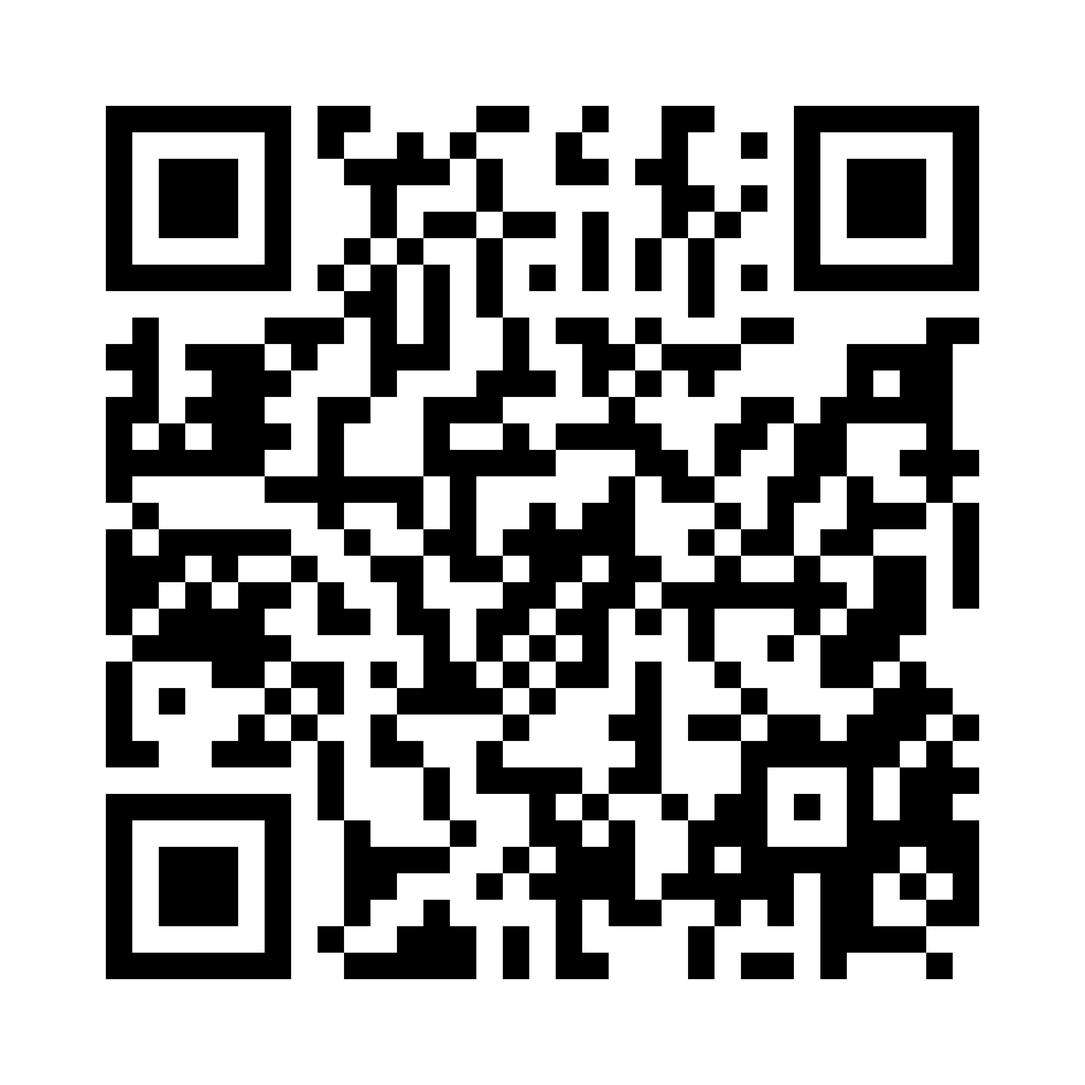
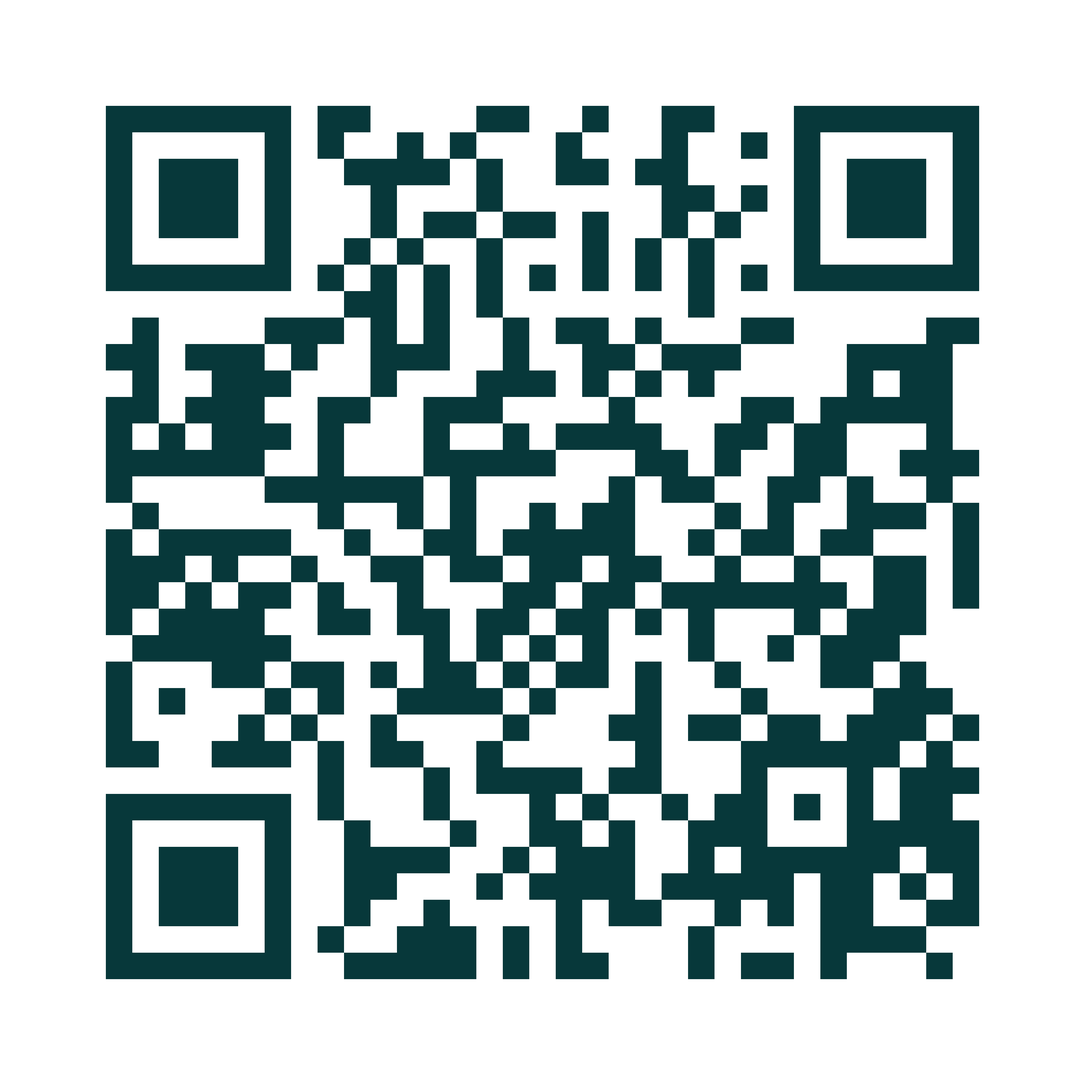
feat(demo): ampliar exemplos e publicar material de divulgação comunitária

diff --git a/assets/civic-demo.js b/assets/civic-demo.js
@@ -23,6 +23,7 @@ const rows=[
 
 const DEMO_AGENCIES=Object.freeze({vias:'Manutenção viária · DEMO',iluminacao:'Iluminação pública · DEMO',residuos:'Limpeza urbana · DEMO',agua:'Água e saneamento · DEMO',alagamentos:'Drenagem urbana · DEMO',sinalizacao:'Mobilidade e sinalização · DEMO',acessibilidade:'Acessibilidade urbana · DEMO',areas:'Áreas públicas · DEMO',outros:'Serviços urbanos · DEMO'});
 const extraSeeds=[["Faixa de pedestres recebe manutenção demonstrativa","A sinalização horizontal aparece como em atendimento neste cenário fictício, usado para demonstrar atualização de mobilidade.","sinalizacao","Jardim Elite","Em andamento",6],["Vazamento em área pública é marcado como resolvido","Caso fictício de saneamento com histórico completo de recebimento, encaminhamento, execução e resolução.","agua","Água Branca","Resolvida",18,2],["Praça entra em vistoria de zeladoria","Ocorrência fictícia sobre conservação de área pública para ampliar o recorte territorial da demonstração.","areas","Parque da Rua do Porto","Em análise",4],["Iluminação de travessia é concluída","Exemplo fictício de atendimento concluído em área central para mostrar uma resolução recente.","iluminacao","Cidade Alta","Resolvida",14,1],["Boca de lobo recebe encaminhamento","Cenário fictício de drenagem urbana com encaminhamento registrado no histórico demonstrativo.","alagamentos","Paulicéia","Encaminhada",6],["Descarte irregular é registrado","Exemplo fictício recém-recebido para demonstrar entrada de nova ocorrência no painel.","residuos","Campestre","Recebida",1],["Placa de orientação é reposta","Resolução fictícia de sinalização para enriquecer a seção de resultados do jornal DEMO.","sinalizacao","Jardim Caxambu","Resolvida",20,3],["Trecho de asfalto entra em análise","Registro fictício de pavimento usado para mostrar análise inicial e filtros por bairro.","vias","Nova Piracicaba","Em análise",5],["Mobiliário urbano recebe manutenção","Exemplo fictício de serviço urbano geral em andamento para apresentação de histórico e setor de referência.","outros","Monte Alegre","Em andamento",7],["Rota acessível é liberada após ajuste","Caso fictício de acessibilidade concluído, com linha do tempo criada apenas para demonstração.","acessibilidade","São Judas","Resolvida",24,4],["Rede de água recebe reparo demonstrativo","Ocorrência fictícia em andamento para mostrar acompanhamento contínuo pelo cidadão.","agua","Algodoal","Em andamento",8],["Área verde tem serviço concluído","Resultado fictício de manutenção de área pública com atualização publicada no jornal de demonstração.","areas","Santa Rosa","Resolvida",16,2],["Poste com falha é encaminhado","Registro fictício de iluminação encaminhado para setor de referência demonstrativo.","iluminacao","Jaraguá","Encaminhada",5],["Ponto de resíduos entra em análise","Ocorrência fictícia de limpeza urbana usada para demonstrar triagem e priorização.","residuos","Bairro Verde","Em análise",3],["Reparo de pavimento é concluído","Caso fictício de via pública com resolução publicada e histórico completo para apresentação.","vias","Piracicamirim","Resolvida",27,7],["Sinalização vertical é registrada","Novo registro fictício de mobilidade, ainda na etapa de recebimento.","sinalizacao","Santa Cecília","Recebida",1],["Drenagem em via central é concluída","Resolução fictícia de alagamento usada apenas para demonstrar dados históricos no portal.","alagamentos","Centro","Resolvida",32,10],["Calçada recebe adequação demonstrativa","Ocorrência fictícia de acessibilidade em execução para demonstrar acompanhamento por status.","acessibilidade","Jardim Itapuã","Em andamento",7],["Parque recebe encaminhamento de zeladoria","Registro fictício de área pública encaminhado para manutenção demonstrativa.","areas","Taquaral","Encaminhada",5],["Equipamento urbano volta ao funcionamento","Caso fictício classificado como outros, resolvido e publicado somente no modo de apresentação.","outros","Vila Independência","Resolvida",19,3],["Iluminação de praça entra em atendimento","Ocorrência fictícia em andamento para demonstrar alertas e acompanhamento de bairro.","iluminacao","Nova América","Em andamento",6],["Demanda de abastecimento é recebida","Novo registro fictício de água e saneamento usado para demonstrar volume recente.","agua","Monte Líbano","Recebida",1],["Limpeza de área central é finalizada","Resolução fictícia de resíduos para demonstrar resultados, filtros e manchetes do jornal DEMO.","residuos","Centro","Resolvida",13,2],["Via de acesso é encaminhada para reparo","Ocorrência fictícia de pavimento encaminhada e acompanhada pelo perfil de demonstração.","vias","Castelinho","Encaminhada",4]];
+extraSeeds.push(...[["Banco de praça recebe reparo no exemplo", "Cenário totalmente fictício para explicar como registrar, acompanhar e consultar etapas. Não descreve um fato real nem um serviço executado pela Prefeitura.", "areas", "Vila Rezende", "Resolvida", 12, 2], ["Travessia próxima à escola entra em análise", "Cenário totalmente fictício para explicar como registrar, acompanhar e consultar etapas. Não descreve um fato real nem um serviço executado pela Prefeitura.", "sinalizacao", "Centro", "Em análise", 3], ["Calçada com obstáculos tem vistoria simulada", "Cenário totalmente fictício para explicar como registrar, acompanhar e consultar etapas. Não descreve um fato real nem um serviço executado pela Prefeitura.", "acessibilidade", "Paulista", "Encaminhada", 5], ["Luminária de rua recebe manutenção no exemplo", "Cenário totalmente fictício para explicar como registrar, acompanhar e consultar etapas. Não descreve um fato real nem um serviço executado pela Prefeitura.", "iluminacao", "Santa Rosa", "Em andamento", 8], ["Ponto de descarte é limpo no cenário fictício", "Cenário totalmente fictício para explicar como registrar, acompanhar e consultar etapas. Não descreve um fato real nem um serviço executado pela Prefeitura.", "residuos", "Piracicamirim", "Resolvida", 15, 3], ["Vazamento junto à praça é relatado no exemplo", "Cenário totalmente fictício para explicar como registrar, acompanhar e consultar etapas. Não descreve um fato real nem um serviço executado pela Prefeitura.", "agua", "Nova América", "Recebida", 1], ["Boca de lobo passa por limpeza simulada", "Cenário totalmente fictício para explicar como registrar, acompanhar e consultar etapas. Não descreve um fato real nem um serviço executado pela Prefeitura.", "alagamentos", "Centro", "Resolvida", 17, 4], ["Via com desnível entra na triagem fictícia", "Cenário totalmente fictício para explicar como registrar, acompanhar e consultar etapas. Não descreve um fato real nem um serviço executado pela Prefeitura.", "vias", "Vila Sônia", "Em análise", 4], ["Equipamento de praça recebe avaliação simulada", "Cenário totalmente fictício para explicar como registrar, acompanhar e consultar etapas. Não descreve um fato real nem um serviço executado pela Prefeitura.", "outros", "São Dimas", "Encaminhada", 6], ["Rampa de acesso tem adequação no exemplo", "Cenário totalmente fictício para explicar como registrar, acompanhar e consultar etapas. Não descreve um fato real nem um serviço executado pela Prefeitura.", "acessibilidade", "Cidade Alta", "Resolvida", 20, 2], ["Faixa de pedestres recebe pintura simulada", "Cenário totalmente fictício para explicar como registrar, acompanhar e consultar etapas. Não descreve um fato real nem um serviço executado pela Prefeitura.", "sinalizacao", "Morumbi", "Em andamento", 7], ["Área verde recebe um novo relato fictício", "Cenário totalmente fictício para explicar como registrar, acompanhar e consultar etapas. Não descreve um fato real nem um serviço executado pela Prefeitura.", "areas", "Monte Alegre", "Recebida", 1], ["Lixeira de praça é substituída no cenário", "Cenário totalmente fictício para explicar como registrar, acompanhar e consultar etapas. Não descreve um fato real nem um serviço executado pela Prefeitura.", "residuos", "Parque da Rua do Porto", "Resolvida", 16, 3], ["Iluminação junto à calçada entra em análise", "Cenário totalmente fictício para explicar como registrar, acompanhar e consultar etapas. Não descreve um fato real nem um serviço executado pela Prefeitura.", "iluminacao", "Cecap", "Em análise", 3], ["Trecho de pavimento tem reparo simulado", "Cenário totalmente fictício para explicar como registrar, acompanhar e consultar etapas. Não descreve um fato real nem um serviço executado pela Prefeitura.", "vias", "Nova Piracicaba", "Resolvida", 21, 5], ["Ponto de água recebe avaliação demonstrativa", "Cenário totalmente fictício para explicar como registrar, acompanhar e consultar etapas. Não descreve um fato real nem um serviço executado pela Prefeitura.", "agua", "Água Branca", "Em andamento", 8], ["Drenagem de rua tem vistoria no exemplo", "Cenário totalmente fictício para explicar como registrar, acompanhar e consultar etapas. Não descreve um fato real nem um serviço executado pela Prefeitura.", "alagamentos", "Paulicéia", "Encaminhada", 4], ["Pedido de conservação entra na fila fictícia", "Cenário totalmente fictício para explicar como registrar, acompanhar e consultar etapas. Não descreve um fato real nem um serviço executado pela Prefeitura.", "outros", "Taquaral", "Recebida", 1]]);
 const statusFlow=['Recebida','Em análise','Encaminhada','Em andamento','Resolvida'];
 function makeExtra(seed,index){
  const [title,description,category,bairro,status,age,done=0.5]=seed,level=statusFlow.indexOf(status),last=status==='Resolvida'?done:Math.max(.2,age-Math.max(1,level*1.4)),span=Math.max(0,age-last);
@@ -90,7 +91,7 @@ const account={
 profile.bio='Perfil totalmente fictício criado para apresentar uma experiência completa do Cidade Conecta, com ocorrências, bairros favoritos, notícias, notificações, itens salvos, histórico e resultados. Nenhuma informação deste perfil representa uma pessoa real.';
 profile.neighborhoods=['Centro','Vila Rezende','Paulista','Piracicamirim','Nova América','São Dimas','Santa Terezinha','Água Branca'];
 profile.following=18;profile.reports=14;profile.resolved=12;
-profile.badges=['Conta DEMO','36 ocorrências fictícias','8 bairros acompanhados','Apresentação do produto','Dados não reais'];
+profile.badges=['Conta DEMO',rows.length+' ocorrências fictícias','8 bairros acompanhados','Apresentação do produto','Dados não reais'];
 account.follows=['DEMO-2026-00001','DEMO-2026-00002','DEMO-2026-00003','DEMO-2026-00004','DEMO-2026-00005','DEMO-2026-00008','DEMO-2026-00012','DEMO-2026-00013','DEMO-2026-00014','DEMO-2026-00016','DEMO-2026-00018','DEMO-2026-00021','DEMO-2026-00022','DEMO-2026-00024','DEMO-2026-00029','DEMO-2026-00030','DEMO-2026-00033','DEMO-2026-00036'];
 account.neighborhoods=[...profile.neighborhoods];
 account.created=['DEMO-2026-00001','DEMO-2026-00003','DEMO-2026-00005','DEMO-2026-00008','DEMO-2026-00010','DEMO-2026-00013','DEMO-2026-00016','DEMO-2026-00017','DEMO-2026-00021','DEMO-2026-00023','DEMO-2026-00026','DEMO-2026-00030','DEMO-2026-00033','DEMO-2026-00036'];

diff --git a/assets/civic-pages.js b/assets/civic-pages.js
@@ -179,10 +179,15 @@ function demoCenter(q){
   ['4','Mostrar a conta DEMO','Apresente ocorrências criadas, acompanhamentos, bairros, notificações e perfil fictício.','#/minhas'],
   ['5','Encerrar com jornal e transparência','Use o jornal como complemento visual e finalize explicando privacidade e dados públicos.','#/noticias?demo=1']
  ];
- const body=`<section class="civic-demo-presentation-hero"><div><span class="civic-demo-stamp">MODO APRESENTAÇÃO</span><span class="miniLabel">Cidade Conecta Piracicaba</span><h2>Uma demonstração guiada do produto</h2><p>Use este roteiro para apresentar a experiência completa sem depender de dados pessoais ou de ocorrências reais. Tudo que estiver marcado como DEMO é fictício e isolado.</p><div class="actions"><a class="btn primary" href="#/registrar">Começar pelo registro</a><a class="btn secondary" href="#/conta">Entrar na conta DEMO</a></div></div><div class="civic-demo-presentation-score"><span>Conteúdo fictício</span><b>${rows.length}</b><small>ocorrências demonstrativas</small><b>${m.resolved}</b><small>resolvidas</small><b>${a?.notifications?.length||0}</b><small>notificações</small></div></section>
- <section class="civic-demo-tour"><div class="civic-news-section-head"><div><span class="miniLabel">Roteiro sugerido</span><h2>Apresente em cinco etapas</h2></div></div><div class="civic-demo-tour-grid">${steps.map(([n,t,d,h])=>`<article><span>${n}</span><h3>${e(t)}</h3><p>${e(d)}</p><a class="miniLink" href="${h}">Abrir etapa →</a></article>`).join('')}</div></section>
- <section class="civic-demo-presentation-grid"><article class="card"><span class="miniLabel">Perfil usado na demonstração</span><h2>${e(p?.name||'Gabriel Demo')}</h2><p>${e(p?.bio||'Perfil fictício')}</p><div class="civic-demo-badges">${(p?.badges||[]).map(x=>`<span>${e(x)}</span>`).join('')}</div></article><article class="card"><span class="miniLabel">O que vale destacar</span><h2>Recursos já integrados</h2><ul class="civic-demo-feature-list"><li>Conta cidadã opcional e isolada do Admin</li><li>Jornal cívico com versão real e DEMO</li><li>Problemas resolvidos e antes/depois moderado</li><li>Notificações, bairros e acompanhamentos</li><li>Admin operacional com auditoria</li><li>PWA, privacidade, acessibilidade e responsividade</li></ul></article></section>
- <aside class="civic-news-note"><strong>Segurança da demonstração</strong><p>A conta DEMO não cria usuário no Supabase, não grava ocorrências, não altera indicadores reais e pode ser resetada a qualquer momento. Ela existe apenas para apresentação e teste da experiência.</p></aside>`;
+ const activeDemo=window.CidadeConectaAccount?.state?.().demo===true;
+ const cases=[['Uma lâmpada apagou','iluminacao','Veja o relato, o protocolo e as etapas de uma manutenção simulada.'],['A calçada precisa de atenção','acessibilidade','Entenda como um pedido fictício pode ser acompanhado até a resolução.'],['Há resíduos em uma área pública','residuos','Explore um exemplo de relato, análise e atualização fictícia.']];
+ const welcome=`<section class="card civic-demo-welcome"><span class="civic-demo-stamp">EXPERIMENTE SEM CADASTRO</span><h2>Entenda o Cidade Conecta em dois minutos</h2><p>Uma pessoa relata um problema urbano. O relato ganha um protocolo. Depois, ela consulta as etapas disponíveis e acompanha as atualizações. Explore esse caminho com exemplos fictícios.</p><div class="actions">${activeDemo?'<a class="btn primary" href="#/minhas">Continuar explorando a DEMO</a>':'<button type="button" class="btn primary" data-account-demo-login>Ativar demonstração sem criar conta</button>'}<a class="btn secondary" href="#/noticias?demo=1">Ler notícias fictícias</a><a class="btn secondary" href="assets/divulgacao/index.html">Material para divulgar</a></div><p class="small muted">Ativar a demonstração troca a conta exibida nesta aba por um perfil fictício. Para voltar ao uso normal, use Sair na tela Minha conta.</p></section>`;
+ const examples=`<section class="civic-demo-examples"><div class="civic-news-section-head"><div><span class="miniLabel">Situações do dia a dia · exemplos fictícios</span><h2>O que dá para entender na prática?</h2></div></div><div class="civic-demo-tour-grid">${cases.map(([title,category,text])=>{const record=rows.find(o=>o.category===category&&o.status==='Resolvida');return `<article><span class="civic-demo-stamp">CASO FICTÍCIO</span><h3>${e(title)}</h3><p>${e(text)}</p><p class="small"><b>Protocolo de exemplo:</b> ${e(record?.protocol||'DEMO')}</p><a class="miniLink" href="#/noticias?demo=1&protocolo=${e(record?.protocol||'')}">Ver a história deste exemplo →</a></article>`}).join('')}</div></section>`;
+ const questions=`<section class="card civic-demo-faq"><span class="miniLabel">Antes de participar</span><h2>Perguntas rápidas</h2><details><summary>Preciso criar uma conta para registrar?</summary><p>Não. O registro de ocorrências continua disponível sem cadastro. A conta é opcional para organizar acompanhamentos e bairros favoritos.</p></details><details><summary>Os exemplos desta apresentação aconteceram de verdade?</summary><p>Não. Todos os protocolos DEMO, relatos e atendimentos desta apresentação são fictícios. Fotografias da cidade são apenas ilustrativas e não comprovam esses relatos.</p></details><details><summary>O relato é enviado automaticamente à Prefeitura?</summary><p>Não. O Cidade Conecta é um projeto acadêmico independente. Seu protocolo não substitui os canais oficiais da Prefeitura nem os serviços de emergência.</p></details><details><summary>Outras pessoas veem meu contato?</summary><p>Seu contato, o código privado e a localização exata não aparecem nas áreas públicas. Leia as orientações de privacidade antes de registrar.</p></details><div class="actions"><a class="btn primary" href="#/registrar">Quero registrar um problema</a><a class="btn secondary" href="#/privacidade">Entender a privacidade</a><a class="btn secondary" href="#/">Voltar ao início</a></div></section>`;
+ const body=`${welcome}<section class="civic-demo-presentation-hero"><div><span class="civic-demo-stamp">MODO APRESENTAÇÃO</span><span class="miniLabel">Cidade Conecta Piracicaba</span><h2>Uma demonstração guiada do produto</h2><p>Use este roteiro para apresentar a experiência completa sem depender de dados pessoais ou de ocorrências reais. Tudo que estiver marcado como DEMO é fictício e isolado.</p><div class="actions"><a class="btn primary" href="#/registrar">Ver formulário de registro</a><a class="btn secondary" href="#/conta">Entrar na conta DEMO</a></div></div><div class="civic-demo-presentation-score"><span>Conteúdo fictício</span><b>${rows.length}</b><small>ocorrências demonstrativas</small><b>${m.resolved}</b><small>resolvidas</small><b>${a?.notifications?.length||0}</b><small>notificações</small></div></section>
+ ${examples}<section class="civic-demo-tour"><div class="civic-news-section-head"><div><span class="miniLabel">Roteiro sugerido</span><h2>Apresente em cinco etapas</h2></div></div><div class="civic-demo-tour-grid">${steps.map(([n,t,d,h])=>`<article><span>${n}</span><h3>${e(t)}</h3><p>${e(d)}</p><a class="miniLink" href="${h}">Abrir etapa →</a></article>`).join('')}</div></section>
+ <section class="civic-demo-presentation-grid"><article class="card"><span class="miniLabel">Perfil usado na demonstração</span><h2>${e(p?.name||'Gabriel Demo')}</h2><p>${e(p?.bio||'Perfil fictício')}</p><div class="civic-demo-badges">${(p?.badges||[]).map(x=>`<span>${e(x)}</span>`).join('')}</div></article><article class="card"><span class="miniLabel">O que vale destacar</span><h2>O que você pode explorar</h2><ul class="civic-demo-feature-list"><li>Registrar um problema urbano sem criar conta</li><li>Consultar um protocolo e suas etapas</li><li>Encontrar exemplos no mapa e na lista</li><li>Entender casos fictícios de problemas resolvidos</li><li>Explorar notícias e bairros favoritos</li><li>Conhecer os cuidados com seus dados pessoais</li></ul></article></section>
+ ${questions}<aside class="civic-news-note"><strong>Segurança da demonstração</strong><p>A conta DEMO não cria usuário no Supabase, não grava ocorrências, não altera indicadores reais e pode ser resetada a qualquer momento. Ela existe apenas para apresentação e teste da experiência.</p></aside>`;
  return shell('Apresentação segura','Central DEMO','Roteiro guiado para apresentar o Cidade Conecta sem misturar dados reais e fictícios.',body,q,{demo:true})
 }
 function transparency(q){

diff --git a/assets/divulgacao/index.html b/assets/divulgacao/index.html
@@ -1,0 +1,23 @@
+<!doctype html>
+<html lang="pt-BR">
+<head>
+<meta charset="utf-8"><meta name="viewport" content="width=device-width,initial-scale=1">
+<meta name="description" content="Divulgue o Cidade Conecta Piracicaba: projeto acadêmico independente, com mapa, protocolo e exemplos fictícios para conhecer a experiência.">
+<title>Divulgue o Cidade Conecta Piracicaba</title>
+<style>
+*{box-sizing:border-box}body{margin:0;background:#e8efeb;color:#07383a;font:17px/1.5 Arial, sans-serif}.tools{max-width:1200px;margin:20px auto;padding:0 20px;display:flex;flex-wrap:wrap;gap:12px}.tools a,.tools button{font:inherit;color:#07383a;background:white;border:1px solid #a5bfba;border-radius:8px;padding:10px 16px;text-decoration:none;cursor:pointer}.poster{position:relative;width:1200px;height:1700px;margin:20px auto;background:#fbfcf7;overflow:hidden;display:flex;flex-direction:column}.brand{padding:54px 72px 32px;display:flex;align-items:center;gap:22px;font-size:30px;font-weight:800}.brand img{width:78px;height:78px}.brand small{display:block;font-size:18px;letter-spacing:4px;font-weight:500}.hero{padding:34px 72px 46px;background:#07383a;color:#fff}.eyebrow{color:#d8ef82;font-size:18px;letter-spacing:4px;font-weight:bold}.hero h1{font-size:83px;line-height:1.04;letter-spacing:-3px;margin:24px 0}.hero p{font-size:28px;line-height:1.5;max-width:940px;margin:0;color:#dce9e3}.steps{display:grid;grid-template-columns:repeat(3,1fr);gap:24px;margin:38px 72px}.step{border-top:4px solid #b9df63;padding:18px 0}.step b{display:block;font-size:23px;margin-bottom:8px}.step p{font-size:20px;line-height:1.4;margin:0;color:#49645f}.scan{display:grid;grid-template-columns:440px 1fr;gap:45px;align-items:center;margin:0 72px;padding:28px;background:#eff4e4;border-radius:22px}.scan img{display:block;width:100%;height:auto;background:white;padding:14px;border-radius:10px}.scan h2{font-size:44px;line-height:1.1;margin:0 0 24px}.scan p{font-size:24px;line-height:1.5;margin:0 0 24px}.tag{display:inline-block;background:#d8ef82;border-radius:100px;padding:9px 17px;font-size:19px;font-weight:800}.url{font-size:25px;text-align:center;padding:26px 30px 10px;margin:0;font-weight:700;overflow-wrap:anywhere}.footer{margin-top:auto;padding:26px 72px 42px;font-size:19px;line-height:1.55;color:#49645f;border-bottom:16px solid #b9df63}.footer strong{display:block;color:#07383a;font-size:23px;margin-bottom:6px}.sr{position:absolute;width:1px;height:1px;overflow:hidden;clip-path:inset(50%)}
+@media(max-width:1230px){.poster{width:calc(100% - 24px);height:auto;min-height:0}.brand{padding:28px;gap:15px;font-size:23px}.brand img{width:60px;height:60px}.brand small{font-size:14px}.hero{padding:32px 28px}.hero h1{font-size:clamp(40px,7vw,83px);letter-spacing:-1.5px}.hero p{font-size:22px}.eyebrow{font-size:13px;letter-spacing:2px}.steps{margin:24px 28px;gap:16px}.step b{font-size:19px}.step p{font-size:17px}.scan{margin:0 28px;grid-template-columns:minmax(160px,40%) 1fr;gap:25px;padding:22px}.scan h2{font-size:32px}.scan p{font-size:19px}.tag{font-size:15px}.url{font-size:19px}.footer{padding:24px 28px;font-size:16px}.footer strong{font-size:19px}}
+@media(max-width:600px){.steps{grid-template-columns:1fr}.step{padding:12px 0}.scan{grid-template-columns:1fr}.scan img{max-width:340px;margin:auto}.scan h2{font-size:30px}.scan p{font-size:18px}.brand{font-size:20px}.brand small{font-size:12px;letter-spacing:2px}.tools a{width:100%;text-align:center}}
+.printPoster{display:none}
+@media print{@page{size:A4;margin:0}body{background:white;margin:0}.tools,.poster{display:none}.printPoster{display:block;width:210mm;height:297mm;object-fit:contain}}
+</style>
+</head><body>
+<nav class="tools" aria-label="Materiais para compartilhar"><a href="https://cidade-conecta-piracicaba.web.app/">Abrir site</a><a href="https://cidade-conecta-piracicaba.web.app/#/demonstracao">Entender com exemplos fictícios</a><a href="cidade-conecta-piracicaba-cartaz.png" download>Baixar cartaz PNG</a><a href="cidade-conecta-piracicaba-qr.png" download>Baixar só o QR Code</a><button type="button" onclick="window.print()">Imprimir / salvar PDF</button></nav>
+<main class="poster" aria-label="Cartaz de divulgação">
+<header class="brand"><img src="../brand-mark-v51.svg" alt=""><div>Cidade Conecta<small>PIRACICABA · SP</small></div></header>
+<section class="hero"><span class="eyebrow">CONHEÇA UM PROJETO FEITO PARA PARTICIPAR</span><h1>Sua cidade.<br>Seu olhar.<br>Mais participação.</h1><p>Conheça uma forma de registrar problemas urbanos, consultar protocolos e explorar informações sobre Piracicaba.</p></section>
+<section class="steps" aria-label="O que você encontra"><article class="step"><b>01 · Entenda</b><p>Veja exemplos fictícios de iluminação, calçadas, resíduos e outros temas.</p></article><article class="step"><b>02 · Explore</b><p>Conheça o mapa, as notícias e o histórico de um protocolo.</p></article><article class="step"><b>03 · Participe</b><p>Registre um problema urbano sem precisar criar uma conta.</p></article></section>
+<section class="scan"><a href="https://cidade-conecta-piracicaba.web.app/" aria-label="Abrir Cidade Conecta Piracicaba"><img src="cidade-conecta-piracicaba-qr.png" alt="QR Code para https://cidade-conecta-piracicaba.web.app/"></a><div><span class="tag">ACESSO GRATUITO</span><h2>Aponte a câmera.<br>Conheça o projeto.</h2><p>Ao entrar no site, procure <strong>“Entenda com exemplos fictícios”</strong> e experimente a apresentação.</p><p>Use no celular ou no computador.</p></div></section>
+<p class="url">cidade-conecta-piracicaba.web.app</p>
+<footer class="footer"><strong>Projeto acadêmico independente.</strong>Não é um canal oficial da Prefeitura e não substitui serviços de emergência. Os exemplos marcados como DEMO são fictícios. Relatos reais ficam separados da demonstração.</footer>
+</main><img class="printPoster" src="cidade-conecta-piracicaba-cartaz.png" alt="Cartaz de divulgação do Cidade Conecta Piracicaba com QR Code"></body></html>

diff --git a/sw.js b/sw.js
@@ -1,7 +1,7 @@
 const CACHE_PREFIX='cidade-conecta-';
-const CACHE='cidade-conecta-v9-firebase-20261111-r1';
+const CACHE='cidade-conecta-v9-demo-20261117-r1';
 const CORE=['./','./index.html','./assets/styles.css','./assets/app.js','./assets/piracicaba.css','./assets/piracicaba.js','./assets/piracicaba-mapas.js','./assets/piracicaba-mapas.css','./assets/privacy-geo.js','./assets/map-resilience.js','./assets/runtime-config.js','./assets/auth.js','./assets/supabase-bridge.js','./assets/site-enhancements.js','./assets/site-enhancements.css','./assets/design-v55.css','./assets/design-v56.css','./assets/brand-mark-v51.svg','./assets/piracicaba-rio.svg','./assets/demo-news/acessibilidade.svg','./assets/demo-news/agua.svg','./assets/demo-news/alagamentos.svg','./assets/demo-news/areas.svg','./assets/demo-news/iluminacao.svg','./assets/demo-news/residuos.svg','./assets/demo-news/sinalizacao.svg','./assets/demo-news/vias.svg','./data/piracicaba.json','./data/municipal-network.json','./manifest.webmanifest','./favicon.svg','./assets/design-system.css','./assets/civic-data.js','./assets/civic-store.js','./assets/civic-news-store.js','./assets/civic-account.js','./assets/civic-ui.js','./assets/civic.css','./assets/institutional-pira-v85.css','./assets/institutional-a11y-v85.js','./assets/civic-pages.js','./assets/civic-share.js','./assets/civic-demo.js','./assets/civic-city-news.js','./assets/civic-community.js','./assets/civic-admin.js','./assets/civic-pwa.js','./assets/icons/icon-180.png','./assets/icons/icon-192.png','./assets/icons/icon-512.png','./assets/icons/icon-maskable-512.png','./assets/vendor/qrcode-generator-1.4.4.js'];
-const SHELL_VERSIONS=['./assets/styles.css?v=5.5.0', './assets/piracicaba.css?v=5.5.0', './assets/piracicaba-mapas.css?v=5.5.0', './assets/site-enhancements.css?v=5.7.1', './assets/design-v55.css?v=5.5.0', './assets/design-v56.css?v=5.7.1-ui4', './assets/design-system.css?v=6.0.1', './assets/brand-mark-v51.svg?v=5.5.0', './assets/runtime-config.js?v=5.7.1', './assets/auth.js?v=8.4.0', './assets/supabase-bridge.js?v=5.5.0', './assets/app.js?v=9.6.4', './assets/piracicaba.js?v=9.6.3', './assets/piracicaba-mapas.js?v=9.6.2', './assets/privacy-geo.js?v=5.5.0', './assets/map-resilience.js?v=1.0.1', './assets/site-enhancements.js?v=8.5.1', './assets/civic-data.js?v=9.6.2', './assets/civic-store.js?v=9.6.2', './assets/civic-account.js?v=9.7.0', './assets/civic-news-store.js?v=8.0.0', './assets/civic-ui.js?v=9.7.0', './assets/civic.css?v=9.6.2', './assets/institutional-pira-v85.css?v=9.2.1', './assets/institutional-a11y-v85.js?v=8.5.1', './assets/civic-pages.js?v=9.6.3', './assets/civic-share.js?v=9.6.2', './assets/civic-demo.js?v=9.6.1', './assets/civic-city-news.js?v=9.6.4', './assets/civic-community.js?v=9.6.2', './assets/civic-admin.js?v=7.0.0-7', './assets/civic-pwa.js?v=7.0.0-7'];
+const SHELL_VERSIONS=['./assets/styles.css?v=5.5.0', './assets/piracicaba.css?v=5.5.0', './assets/piracicaba-mapas.css?v=5.5.0', './assets/site-enhancements.css?v=5.7.1', './assets/design-v55.css?v=5.5.0', './assets/design-v56.css?v=5.7.1-ui4', './assets/design-system.css?v=6.0.1', './assets/brand-mark-v51.svg?v=5.5.0', './assets/runtime-config.js?v=5.7.1', './assets/auth.js?v=8.4.0', './assets/supabase-bridge.js?v=5.5.0', './assets/app.js?v=9.6.4', './assets/piracicaba.js?v=9.6.3', './assets/piracicaba-mapas.js?v=9.6.2', './assets/privacy-geo.js?v=5.5.0', './assets/map-resilience.js?v=1.0.1', './assets/site-enhancements.js?v=8.5.1', './assets/civic-data.js?v=9.6.2', './assets/civic-store.js?v=9.6.2', './assets/civic-account.js?v=9.7.0', './assets/civic-news-store.js?v=8.0.0', './assets/civic-ui.js?v=9.7.0', './assets/civic.css?v=9.6.2', './assets/institutional-pira-v85.css?v=9.8.0', './assets/institutional-a11y-v85.js?v=8.5.1', './assets/civic-pages.js?v=9.8.0', './assets/civic-share.js?v=9.6.2', './assets/civic-demo.js?v=9.8.0', './assets/civic-city-news.js?v=9.6.4', './assets/civic-community.js?v=9.6.2', './assets/civic-admin.js?v=7.0.0-7', './assets/civic-pwa.js?v=7.0.0-7'];
 
 self.addEventListener('install',event=>{
   event.waitUntil(caches.open(CACHE).then(cache=>cache.addAll([...CORE,...SHELL_VERSIONS])).then(()=>self.skipWaiting()));

diff --git a/index.html b/index.html
@@ -32,7 +32,7 @@
   <link rel="stylesheet" href="assets/design-v56.css?v=5.7.1-ui4">
   <link rel="stylesheet" href="assets/design-system.css?v=6.0.1">
   <link rel="stylesheet" href="assets/civic.css?v=9.6.2">
-  <link rel="stylesheet" href="assets/institutional-pira-v85.css?v=9.2.1">
+  <link rel="stylesheet" href="assets/institutional-pira-v85.css?v=9.8.0">
   <script type="application/ld+json">
   {
     "@context":"https://schema.org",
@@ -97,7 +97,7 @@
   </div>
 
   <div class="demo">
-    <div class="wrap"><span class="demoMark" aria-hidden="true">●</span><span><strong>Protótipo acadêmico independente.</strong> Demonstra registro e acompanhamento urbano em Piracicaba; não é canal oficial da Prefeitura.</span><a class="demoTourLinkV82" href="#/demonstracao">Ver apresentação DEMO →</a></div>
+    <div class="wrap"><span class="demoMark" aria-hidden="true">●</span><span><strong>Protótipo acadêmico independente.</strong> Demonstra registro e acompanhamento urbano em Piracicaba; não é canal oficial da Prefeitura.</span><a class="demoTourLinkV82" href="#/demonstracao">Entenda com exemplos fictícios →</a></div>
   </div>
 
   <section id="cityUpdatesBar" class="civic-updatebar" aria-label="Atualizações públicas da cidade" aria-live="polite">
@@ -182,7 +182,7 @@
   <script src="assets/civic-data.js?v=9.6.2" defer></script>
   <script src="assets/civic-store.js?v=9.6.2" defer></script>
   <script src="assets/civic-city-news.js?v=9.6.4" defer></script>
-  <script src="assets/civic-demo.js?v=9.6.1" defer></script>
+  <script src="assets/civic-demo.js?v=9.8.0" defer></script>
   <script src="assets/civic-account.js?v=9.7.0" defer></script>
   <script src="assets/civic-news-store.js?v=8.0.0" defer></script>
   <script src="assets/app.js?v=9.6.4" defer></script>
@@ -194,7 +194,7 @@
   <script src="assets/civic-admin.js?v=7.0.0-7" defer></script>
   <script src="assets/civic-community.js?v=9.6.2" defer></script>
   <script src="assets/civic-share.js?v=9.6.2" defer></script>
-  <script src="assets/civic-pages.js?v=9.6.3" defer></script>
+  <script src="assets/civic-pages.js?v=9.8.0" defer></script>
   <script src="assets/civic-pwa.js?v=7.0.0-7" defer></script>
   <script src="assets/institutional-a11y-v85.js?v=8.5.1" defer></script>
 </body>

diff --git a/assets/institutional-pira-v85.css b/assets/institutional-pira-v85.css
@@ -758,3 +758,15 @@ html {scroll-padding-block:calc(var(--cc-sticky-top,0px) + .5rem) calc(var(--cc-
 .civic-city-photo.is-fallback.civic-city-gallery-photo figcaption{background:linear-gradient(transparent,rgba(0,0,0,.76))}
 
 .civic-city-photo img{background:transparent}
+
+/* Apresentação pública: exemplos e explicações sem misturar a base real. */
+.civic-demo-welcome{margin-bottom:1.5rem;background:#eff6df;border-color:#b8d3a4}
+.civic-demo-welcome h2{margin-top:.6rem;font-size:clamp(1.55rem,4vw,2.5rem)}
+.civic-demo-welcome p{max-width:75ch;line-height:1.65}
+.civic-demo-examples,.civic-demo-faq{margin-block:1.5rem}
+.civic-demo-examples .civic-demo-tour-grid{grid-template-columns:repeat(3,minmax(0,1fr))}
+.civic-demo-examples .civic-demo-tour-grid .civic-demo-stamp{width:auto;height:auto;border-radius:6px;font-size:.68rem;padding:.35rem .6rem}
+.civic-demo-faq details{border-top:1px solid #d5e1dc;padding:1rem 0}
+.civic-demo-faq summary{cursor:pointer;font-weight:750;line-height:1.5}
+.civic-demo-faq details p{max-width:75ch;line-height:1.65}
+@media(max-width:700px){.civic-demo-examples .civic-demo-tour-grid{grid-template-columns:1fr}.civic-demo-welcome .actions{display:grid}.civic-demo-welcome .btn{white-space:normal;text-align:center}}

diff --git a/docs/DEMO-DIVULGACAO-20261116.md b/docs/DEMO-DIVULGACAO-20261116.md
@@ -1,0 +1,16 @@
+# Demonstração e divulgação comunitária
+
+A apresentação passou de 36 para 54 ocorrências fictícias, distribuídas entre nove categorias. Todos os protocolos têm prefixo DEMO, permanecem identificados como simulação e não integram métricas nem exportações da base real. O perfil fictício usa contagem derivada da própria coleção.
+
+A Central DEMO explica o projeto em linguagem cotidiana, apresenta três histórias de exemplo, perguntas frequentes e ativação da demonstração sem digitar credenciais. O novo convite na página inicial facilita encontrar esse conteúdo. Ativar a DEMO troca a conta exibida nesta aba; a página explica como sair.
+
+Materiais publicados:
+
+- Central: https://cidade-conecta-piracicaba.web.app/#/demonstracao
+- Página de divulgação: https://cidade-conecta-piracicaba.web.app/assets/divulgacao/
+- Cartaz PNG: https://cidade-conecta-piracicaba.web.app/assets/divulgacao/cidade-conecta-piracicaba-cartaz.png
+- QR PNG: https://cidade-conecta-piracicaba.web.app/assets/divulgacao/cidade-conecta-piracicaba-qr.png
+
+O QR tem 3280 × 3280 pixels, 300 dpi, margem de quatro módulos e correção Q. O cartaz tem 2400 × 3402 pixels e apresenta o objetivo do projeto, três formas de conhecê-lo e a identificação acadêmica independente. Ambos os arquivos foram decodificados com sucesso para `https://cidade-conecta-piracicaba.web.app/`. O QR isolado também foi lido em 600 e 300 pixels.
+
+Verificações: 165 testes automatizados aprovados; 163 cenários do smoke em Chromium aprovados; revisão em 1366, 390 e 320 pixels, sem estouro horizontal nem exceções JavaScript. A ativação da DEMO e a navegação dos exemplos não produziram chamadas de escrita à autenticação, à conta cidadã ou ao envio de ocorrências. A página de divulgação oferece download e impressão do cartaz. A base oficial do Supabase não foi modificada.
